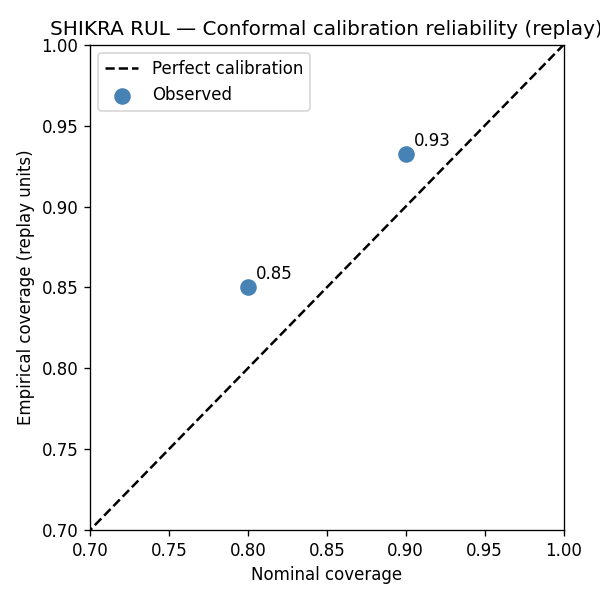
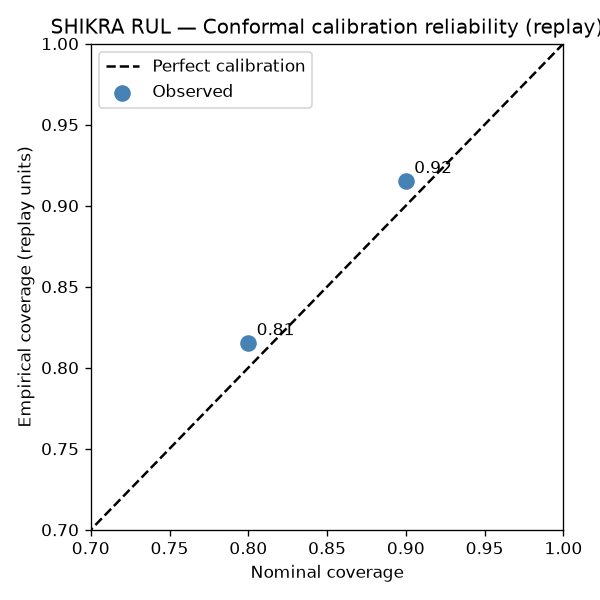
docs: remove SimPy references and update project wording

diff --git a/shikra/sim/engine.py b/shikra/sim/engine.py
@@ -1,7 +1,7 @@
 """SHIKRA fleet discrete-event simulation.
 
 Simulates a 54-aircraft wing (3 squadrons × 18 aircraft) over a one-year
-horizon using SimPy with daily resolution.  Four policies are supported:
+horizon with daily resolution.  Four policies are supported:
   reactive    — remove only at failure
   preventive  — remove when installed cycles ≥ T_prev
   shikra      — remove when q10 ≤ R_star (or failure)

diff --git a/shikra/sim/__init__.py b/shikra/sim/__init__.py
@@ -1,1 +1,1 @@
-"""Fleet discrete-event simulation using SimPy."""
+"""Fleet discrete-event simulation."""

diff --git a/results/GATES.md b/results/GATES.md
@@ -3,8 +3,8 @@
 
 | Gate | Verdict | Detail |
 |------|---------|--------|
-| G0.1 — FD001 RMSE ≤ 18.5 | **PASS** | FD001 RMSE = 11.61 (threshold <= 18.5, target <= 13) |
-| G0.2 — 90% replay coverage 0.85–0.95 | **PASS** | 90% replay coverage = 0.932 (target 0.85-0.95) |
+| G0.1 — FD001 RMSE ≤ 18.5 | **PASS** | FD001 RMSE = 11.43 (threshold <= 18.5, target <= 13) |
+| G0.2 — 90% replay coverage 0.85–0.95 | **PASS** | 90% replay coverage = 0.915 (target 0.85-0.95) |
 ## Simulation Gates
 
 | Gate | Result |

diff --git a/LIMITATIONS.md b/LIMITATIONS.md
@@ -33,7 +33,7 @@ This document honestly lists the known limitations of the SHIKRA system for SIH2
 
 ## Simulation Limitations
 
-- **SimPy discrete-event simulation with daily resolution.**
+- **Discrete-event simulation with daily resolution.**
   Sub-daily events (e.g., multiple sorties in a day, mid-day failures) are not modelled.
 
 - **No multi-condition modelling today.**
